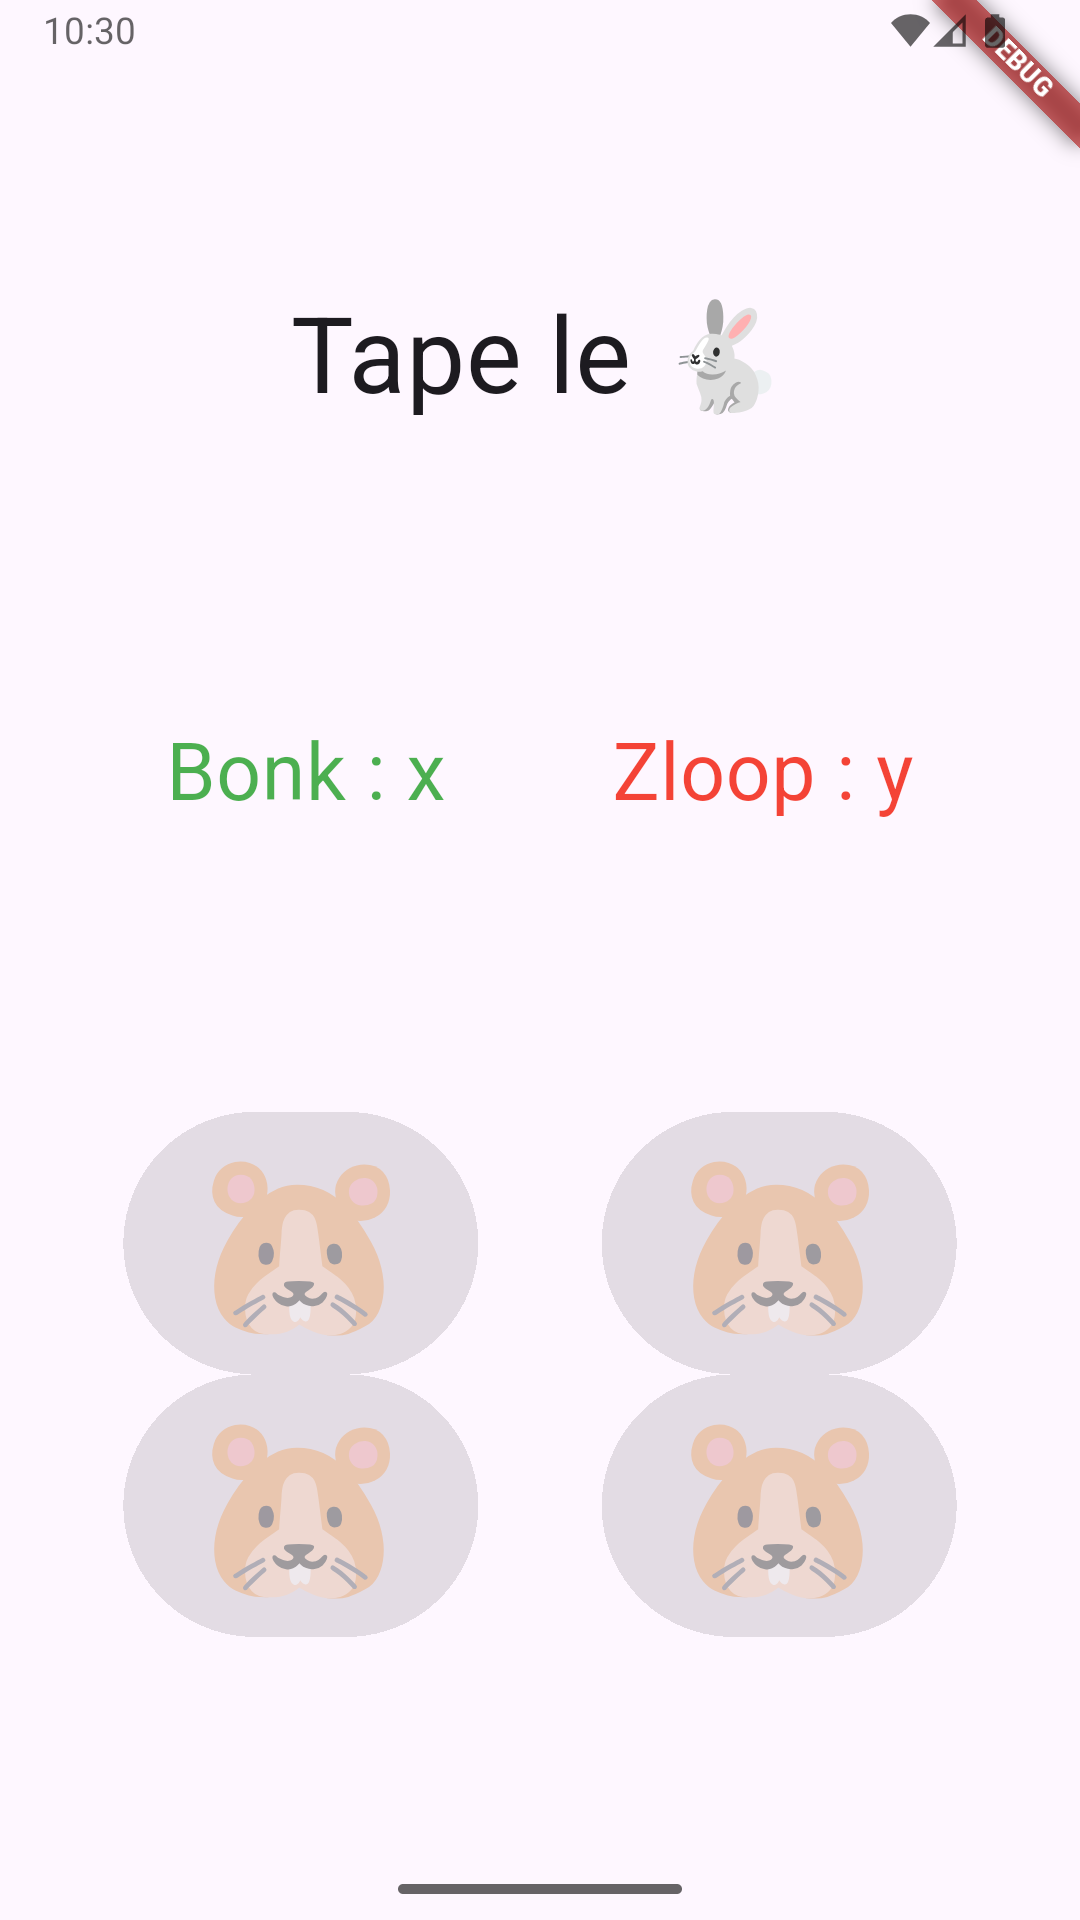
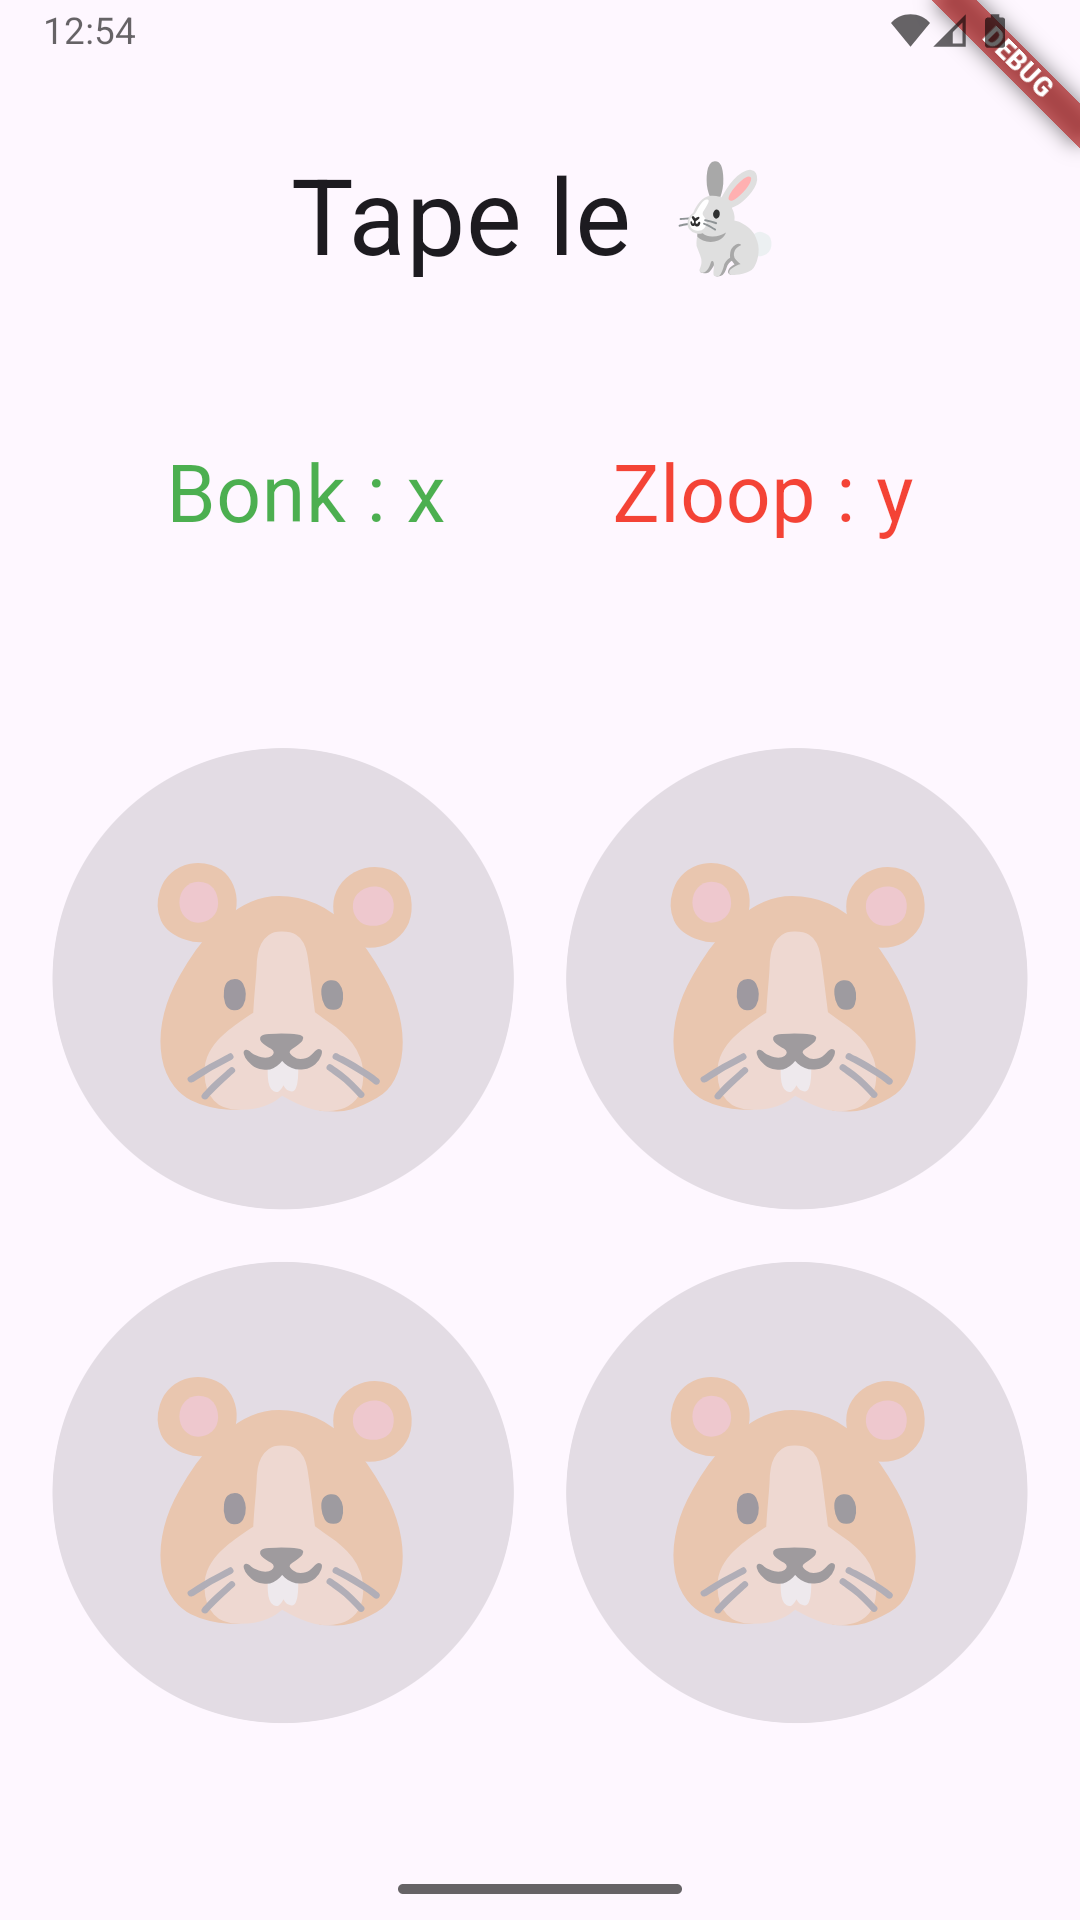
Tape le lapin complet

diff --git a/code/tape_le_lapin/lib/lapin.dart b/code/tape_le_lapin/lib/lapin.dart
@@ -1,3 +1,5 @@
+import 'dart:math';
+
 import 'package:flutter/material.dart';
 
 class MyHomePage extends StatefulWidget {
@@ -8,6 +10,19 @@ class MyHomePage extends StatefulWidget {
 }
 
 class _MyHomePageState extends State<MyHomePage> {
+  final _random = Random();
+
+  int _positionLapin = 0;
+  int _scoreBonk = 0;
+  int _scoreZloop = 0;
+
+  @override
+  void initState() {
+    super.initState();
+    // Choisir un entier entre 0 et 4
+    _positionLapin = _random.nextInt(4);
+  }
+
   @override
   Widget build(BuildContext context) {
     return Scaffold(
@@ -15,49 +30,44 @@ class _MyHomePageState extends State<MyHomePage> {
         child: Column(
           mainAxisAlignment: MainAxisAlignment.spaceEvenly,
           children: [
-            const Text('Tape le 🐇', style: TextStyle(fontSize: 40)),
-            const Row(
+            Text('Tape le 🐇', style: TextStyle(fontSize: 40)),
+            Row(
               mainAxisAlignment: MainAxisAlignment.spaceEvenly,
               children: [
                 Text(
-                  "Bonk : x",
+                  "Bonk : $_scoreBonk",
                   style: TextStyle(color: Colors.green, fontSize: 30),
                 ),
                 Text(
-                  "Zloop : y",
+                  "Zloop : $_scoreZloop",
                   style: TextStyle(color: Colors.red, fontSize: 30),
                 ),
               ],
             ),
-            Column(
-              children: [
-                Row(
-                  mainAxisAlignment: MainAxisAlignment.spaceEvenly,
-                  children: [
-                    ElevatedButton(
-                      onPressed: null,
-                      child: Text("🐹", style: TextStyle(fontSize: 70)),
-                    ),
-                    ElevatedButton(
-                      onPressed: null,
-                      child: Text("🐹", style: TextStyle(fontSize: 70)),
-                    ),
-                  ],
-                ),
-                Row(
-                  mainAxisAlignment: MainAxisAlignment.spaceEvenly,
-                  children: [
-                    ElevatedButton(
-                      onPressed: null,
-                      child: Text("🐹", style: TextStyle(fontSize: 70)),
-                    ),
-                    ElevatedButton(
-                      onPressed: null,
-                      child: Text("🐹", style: TextStyle(fontSize: 70)),
-                    ),
-                  ],
-                ),
-              ],
+            GridView.count(
+              shrinkWrap: true, // Dimensionner selon le contenu
+              physics: NeverScrollableScrollPhysics(), // Empêcher de scroller
+              crossAxisCount: 2, // Nombre de colonnes
+              mainAxisSpacing: 20, // Espacement vertical
+              crossAxisSpacing: 20, // Espacement horizontal
+              padding: EdgeInsets.all(20), // Espacement autour
+              children: List.generate(4, (index) {
+                String emoji = _positionLapin == index ? "🐇" : "🐹";
+                return ElevatedButton(
+                  onPressed: () {
+                    setState(() {
+                      if (index == _positionLapin) {
+                        _scoreBonk++;
+                      } else {
+                        _scoreZloop++;
+                      }
+
+                      _positionLapin = _random.nextInt(4);
+                    });
+                  },
+                  child: Text(emoji, style: TextStyle(fontSize: 100)),
+                );
+              }),
             ),
           ],
         ),

diff --git a/web/docs/03-recettes/tape-le-lapin.md b/web/docs/03-recettes/tape-le-lapin.md
@@ -112,7 +112,7 @@ De retour dans `main.dart`, positionnez vous sur `MyHomePage`, qui devrait être
 <Column>![Menu pour importer](./_tape-le-lapin/import.png)</Column>
 </Row>
 
-Relancez l'application. Vous devriez maintenant voir **"Tape le lapin"** centré.
+Relancez l'application. Vous devriez maintenant voir **"Tape le 🐇"** centré.
 
 Si tout fonctionne comme prévu, COMMIT + PUSH.
 
@@ -233,10 +233,9 @@ Row(
 
 Pour les boutons, nous allons afficher une grille de 2x2 boutons, qui vont tous afficher 🐹 pour le moment.
 
-Pour former la grille, nous allons ajouter une colonne qui contiendra 2 rangées, qui contiendront 2 boutons chacuns.
-
 ```dart
 Column(
+  mainAxisAlignment: MainAxisAlignment.spaceEvenly,
   children: [
     const Text('Tape le 🐇', style: TextStyle(fontSize: 40)),
     const Row(
@@ -251,12 +250,14 @@ Column(
           style: TextStyle(color: Colors.red, fontSize: 30),
         ),
       ],
-    ), // <- Ne pas oublier la virgule ici
+    ),
     // highlight-start
-    Column(
+    GridView.count(
+      shrinkWrap: true,  // Dimensionner selon le contenu 
+      physics: NeverScrollableScrollPhysics(), // Empêcher de scroller4
+      crossAxisCount: 2, // Nombre de colonnes
       children: [
-        Row(children: []),
-        Row(children: []),
+        
       ],
     ),
     // highlight-end
@@ -267,40 +268,79 @@ Column(
 Ajoutons maintenant les boutons :
 
 ```dart
-Column(
+GridView.count(
+  shrinkWrap: true,  // Dimensionner selon le contenu 
+  physics: NeverScrollableScrollPhysics(), // Empêcher de scroller
+  crossAxisCount: 2, // Nombre de colonnes
   children: [
-    Row(
-      children: [
-        // highlight-start
-        ElevatedButton(onPressed: null, child: Text("🐹")),
-        ElevatedButton(onPressed: null, child: Text("🐹")),
-        // highlight-end
-      ],
+    // highlight-start
+    ElevatedButton(onPressed: null, child: Text("🐹")),
+    ElevatedButton(onPressed: null, child: Text("🐹")),
+    ElevatedButton(onPressed: null, child: Text("🐹")),
+    ElevatedButton(onPressed: null, child: Text("🐹")),
+    // highlight-end
+  ],
+),
+```
+
+On verra dans l'étape suivante ce que la propriété `onPressed` fait. C'est d'ailleurs parce-qu'elle est à `null` que les boutons semblent grisés.
+
+On peut aussi grossir les boutons en leur assignant une taille un peu plus élevée, tel que vu précédement :
+
+```dart
+Text("🐹", style: TextStyle(fontSize: 100))
+```
+
+On peut aussi ajouter ajouter un peu d'espacement entre et autour des boutons :
+
+```dart
+GridView.count(
+  shrinkWrap: true, // Dimensionner selon le contenu
+  physics: NeverScrollableScrollPhysics(), // Empêcher de scroller
+  crossAxisCount: 2, // Nombre de colonnes
+  // highlight-start
+  mainAxisSpacing: 20, // Espacement vertical
+  crossAxisSpacing: 20, // Espacement horizontal
+  padding: EdgeInsets.all(20), // Espacement autour
+  // highlight-end
+  children: [
+    ElevatedButton(
+      onPressed: null,
+      child: Text("🐹", style: TextStyle(fontSize: 100)),
     ),
-    Row(
-      children: [
-        // highlight-start
-        ElevatedButton(onPressed: null, child: Text("🐹")),
-        ElevatedButton(onPressed: null, child: Text("🐹")),
-        // highlight-end
-      ],
+    ElevatedButton(
+      onPressed: null,
+      child: Text("🐹", style: TextStyle(fontSize: 100)),
+    ),
+    ElevatedButton(
+      onPressed: null,
+      child: Text("🐹", style: TextStyle(fontSize: 100)),
+    ),
+    ElevatedButton(
+      onPressed: null,
+      child: Text("🐹", style: TextStyle(fontSize: 100)),
     ),
   ],
 ),
 ```
 
-On verra dans l'étape suivante ce que `onPressed` fait. C'est d'ailleurs parce-que `onPressed` est nul que les boutons semblent grisés.
-
-On peut aussi grossir les en leur assignant une taille un peu plus élevée, tel que vu précédement :
+Si vous êtes habile, vous avez remarqué que les boutons commencent à se répéter, et que chaque modification devra être appliquée 4x. Imaginez si c'était 10 boutons, il faudrait modifier le code 10x. Nous allons donc tenter une autre approche pour mieux gérer nos boutons :
 
 ```dart
-Text("🐹", style: TextStyle(fontSize: 70))
-```
-
-On peut aussi ajouter cet attribut sur les 2 **Row** créés pour aérer les boutons :
-
-```dart
-mainAxisAlignment: MainAxisAlignment.spaceEvenly,
+GridView.count(
+  shrinkWrap: true, // Dimensionner selon le contenu
+  physics: NeverScrollableScrollPhysics(), // Empêcher de scroller
+  crossAxisCount: 2, // Nombre de colonnes
+  mainAxisSpacing: 20, // Espacement vertical
+  crossAxisSpacing: 20, // Espacement horizontal
+  padding: EdgeInsets.all(20), // Espacement autour
+  children: List.generate(4, (index) {
+    return ElevatedButton(
+      onPressed: null,
+      child: Text("🐹", style: TextStyle(fontSize: 100)),
+    );
+  }),
+),
 ```
 
 ### Fignoler l'interface
@@ -317,6 +357,127 @@ Avant de continuer, validez que votre interface ressemble à ça :
 
 Maintenant que nous avons l'interface graphique, nous allons implémenter le comportement.
 
+### Score
+
+Le score des Bonk et des Zloop est appelé à changer. Pour garder le compte, il faut déclarer des variables :
+
+```dart
+class _MyHomePageState extends State<MyHomePage> {
+  int _scoreBonk = 0;
+
+  // Reste du code
+}
+```
+
+Pour afficher la valeur de ces variables dans le texte affiché, remplacer les x et y qui avaient été ajoutés :
+
+```dart
+Text(
+  "Bonk : $_scoreBonk",
+  style: TextStyle(color: Colors.green, fontSize: 30),
+),
+```
+
+Faites pareil pour le score de Zloop.
+
+### Position du 🐇
+
+À chaque fois qu'on appuie sur un bouton, il faut déterminer la nouvelle position du 🐇. On veut tout de même le faire une première fois au lancement de l'application.
+
+Pour y arriver, on doit garder en mémoire l'index de la position du 🐇 dans une variable, et utiliser l'objet **Random** pour déterminer au hasard cette position.
+
+```dart
+class _MyHomePageState extends State<MyHomePage> {
+  final Random _random = Random();
+
+  int _positionLapin = 0;
+  // Autres varibles
+
+  // Reste du code
+}
+```
+
+Au démarrage, on veut trouver la première position du 🐇.
+
+```dart
+class _MyHomePageState extends State<MyHomePage> {
+
+  // Variables
+
+  @override
+  void initState() {
+    super.initState();
+    // Choisir un entier entre 0 et 4
+    _positionLapin = _random.nextInt(4);
+  }
+
+  // Rest du code
+}
+```
+
+Pour afficher le 🐇, il faut modifier le code du générateur de liste de la grille.
+
+```dart
+GridView.count(
+  shrinkWrap: true, // Dimensionner selon le contenu
+  physics: NeverScrollableScrollPhysics(), // Empêcher de scroller
+  crossAxisCount: 2, // Nombre de colonnes
+  mainAxisSpacing: 20, // Espacement vertical
+  crossAxisSpacing: 20, // Espacement horizontal
+  padding: EdgeInsets.all(20), // Espacement autour
+  children: List.generate(4, (index) {
+    // highlight-next-line
+    String emoji = _positionLapin == index ? "🐇" : "🐹";
+    return ElevatedButton(
+      onPressed: null,
+      // highlight-next-line
+      child: Text(emoji, style: TextStyle(fontSize: 100)),
+    );
+  }),
+),
+```
+
+On devrait maintenant voir 1x🐇 et 3x🐹. La position du 🐇 devrait changer à chaque redémarrage.
+
 ### Réagir aux clics
 
-### Mélanger
+Commençons par ajouter une fonction anonyme vide. Vous pouvez vous rafraîchir la mémoire sur les [fonctions anonymes (lambda) 🥸](../03-recettes/rappel-lambda.md).
+
+```dart
+ElevatedButton(
+  // highlight-start
+  onPressed: () {},
+  // highlight-end
+  child: Text(emoji, style: TextStyle(fontSize: 100)),
+);
+```
+
+Lorsqu'on tape sur un bouton, on veut :
+
+1. Vérifier si on a tapé sur le bon bouton, et mettre à jour le compteur qui correspond à ce qui a été tappé.
+2. Trouver un nouvel emplacement pour le 🐇.
+
+```dart
+ElevatedButton(
+  // highlight-start
+  onPressed: () {
+    setState(() {
+      if (index == _positionLapin) {
+        _scoreBonk++;
+      } else {
+        _scoreZloop++;
+      }
+
+      _positionLapin = _random.nextInt(4);
+    });
+  },
+  // highlight-end
+  child: Text(emoji, style: TextStyle(fontSize: 100)),
+);
+```
+
+:::info setState?
+Le `setState` indique à Flutter qu'on souhaite mettre à jour l'interface graphique. Flutter va donc cibler quelles zones de l'application il doit redessiner. Vous remarquerez que tout comme `onPressed`, `setState` utilise aussi une [fonction anonyme 🥸](../03-recettes/rappel-lambda.md).
+:::
+
+Bravo 🎉! Tu as réussi à compléter ta première application en Flutter 🐦! 

diff --git a/web/docs/03-recettes/rappel-lambda.md b/web/docs/03-recettes/rappel-lambda.md
@@ -1,0 +1,2 @@
+# Rappel sur les fonctions anonymes (Lambda) 🥸
+